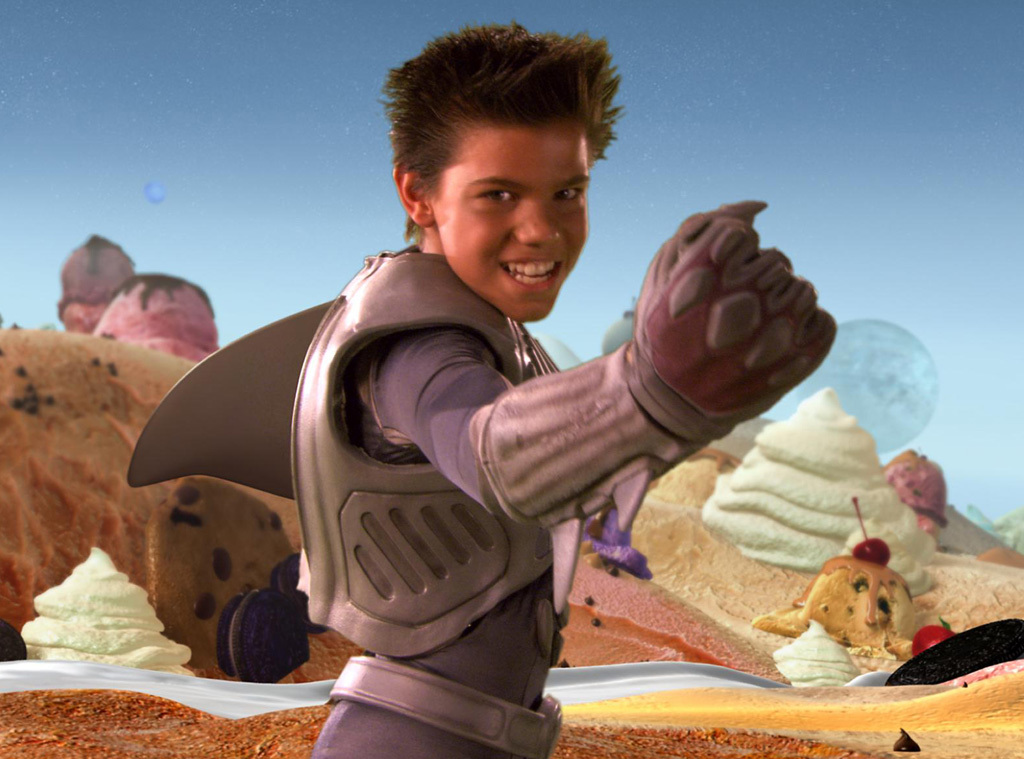
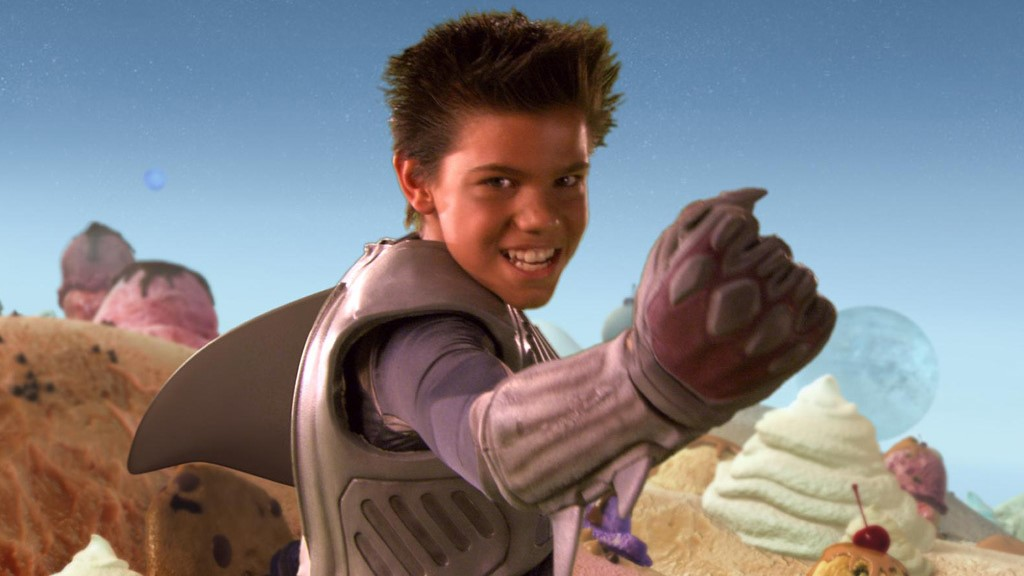
Changed aspect ratio to 16:9 for all photos

diff --git a/index.html b/index.html
@@ -49,7 +49,7 @@
                 <div class="d-none d-md-block">
                     <hr>
                 </div>
-                <img src="./assets/img/TaylorSwiftxTravisKelce.webp" class="img-fluid" alt="Taylor Swift and Travis Kelce">
+                <img src="./assets/img/TaylorSwiftxTravisKelce.jpg" class="img-fluid" alt="Taylor Swift and Travis Kelce">
                 <p>
                     Eget est lorem ipsum dolor. Magna etiam tempor orci eu. Duis tristique sollicitudin nibh sit.
                 </p>
@@ -69,7 +69,7 @@
                 </p>
             </div>
             <div class="col-12 col-md-4 col-xl-5">
-                <img src="./assets/img/SpeakNowTaylorsVersion.webp" class="img-fluid" alt="Speak Now (Taylor's Version) Vinyl">
+                <img src="./assets/img/SpeakNowTaylorsVersion.jpg" class="img-fluid" alt="Speak Now (Taylor's Version) Vinyl">
             </div>
             <div class="d-md-none">
                 <br>
